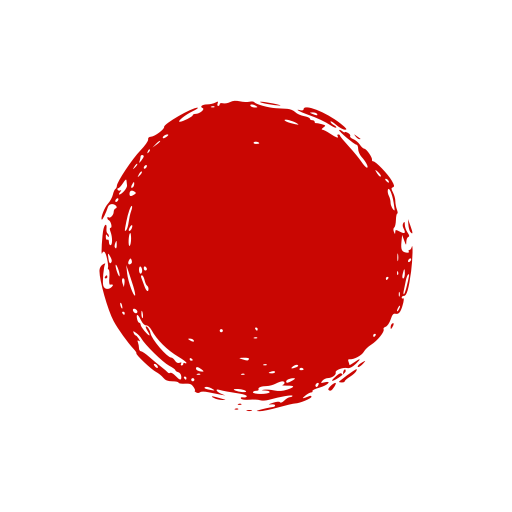
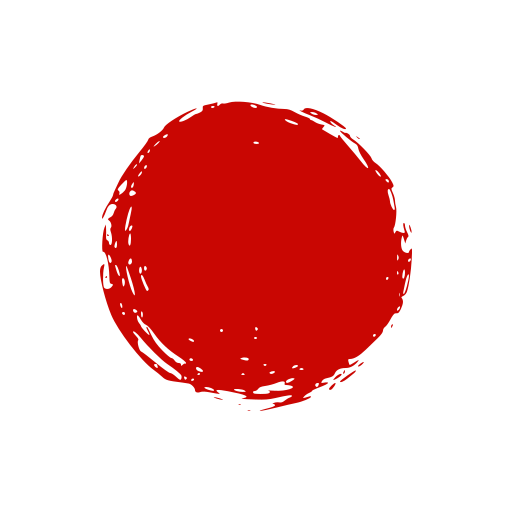
Add files via upload

diff --git a/index.html b/index.html
@@ -252,6 +252,9 @@
             bottom: 10px;
             right: 14px;
             z-index: 2;
+            display: flex;
+            align-items: center;
+            gap: 8px;
         }
 
         .btn-circle-submit {
@@ -270,6 +273,26 @@
         .btn-circle-submit:hover {
             opacity: 0.85;
             transform: scale(1.15);
+        }
+
+        /* Clear Button styled exactly like logout/close symbol */
+        .btn-clear-inline {
+            background: transparent;
+            border: none;
+            cursor: pointer;
+            padding: 2px;
+            display: flex;
+            align-items: center;
+            justify-content: center;
+            color: var(--text-color);
+            opacity: 0.35;
+            transition: opacity 0.2s ease, color 0.2s ease, transform 0.2s ease;
+        }
+
+        .btn-clear-inline:hover {
+            opacity: 1;
+            color: #ff3b30;
+            transform: scale(1.1);
         }
 
         /* Mini Calendar Widget */
@@ -651,6 +674,13 @@
 
         <div class="floating-footer-left" id="counterDisplay">0 words · 0 chars</div>
         <div class="floating-footer-right">
+            <!-- Clear Button (styled like logout/close symbol) -->
+            <button class="btn-clear-inline" onclick="clearCurrentJournal()" title="clear text">
+                <svg viewBox="0 0 24 24" width="14" height="14" stroke="currentColor" stroke-width="2" fill="none" stroke-linecap="round" stroke-linejoin="round">
+                    <line x1="18" y1="6" x2="6" y2="18"></line>
+                    <line x1="6" y1="6" x2="18" y2="18"></line>
+                </svg>
+            </button>
             <button class="btn-circle-submit" onclick="saveCurrentJournal()" title="submit"></button>
         </div>
     </main>
@@ -935,15 +965,29 @@
         document.getElementById('counterDisplay').innerText = `${words} words · ${chars} chars`;
     }
 
+    function clearCurrentJournal() {
+        const textarea = document.getElementById('mainTextarea');
+        textarea.value = '';
+        updateCounters('');
+        showToast('text cleared');
+    }
+
     async function saveCurrentJournal() {
         if (!currentUser) {
             openLoginModal();
             return;
         }
 
+        const todayStr = getFormattedDateStr(new Date());
+
+        // Aturan: Deny jika submit 2x hari ini (sudah ada entri hari ini), harus masuk tanggal di kalender untuk edit
+        if (journalEntries[todayStr]) {
+            showToast('already submitted today. use calendar to edit.');
+            return;
+        }
+
         const textarea = document.getElementById('mainTextarea');
         const content = textarea.value.trim().toLowerCase();
-        const todayStr = getFormattedDateStr(new Date());
 
         if (!content) {
             showToast('entry is empty');
@@ -964,7 +1008,10 @@
             console.error(error);
         } else {
             await fetchUserEntries();
-            showToast('journal saved online!');
+            // Auto delete/reset text pada placeholder utama setelah berhasil submit
+            textarea.value = '';
+            updateCounters('');
+            showToast('submitted & saved online!');
         }
     }
 
@@ -1213,15 +1260,22 @@
         const yearNum = parseInt(yearStr, 10);
         const dates = getDateRangeOfWeek(weekNum, weekNum ? weekNum : 1, yearNum);
 
-        let summaryText = `weekly audit summary - week ${weekNum} (${yearNum})\n\n`;
+        let summaryText = `weekly audit summary - week ${weekNum} (${yearNum})
+
+`;
 
         dates.forEach(d => {
             const dateStr = getFormattedDateStr(d);
             const formattedDate = d.toLocaleDateString('en-US', { weekday: 'short', month: 'short', day: 'numeric' }).toLowerCase();
             const entry = journalEntries[dateStr];
 
-            summaryText += `--- ${formattedDate} ---\n`;
-            summaryText += entry ? `${entry.content}\n\n` : `(no entry)\n\n`;
+            summaryText += `--- ${formattedDate} ---
+`;
+            summaryText += entry ? `${entry.content}
+
+` : `(no entry)
+
+`;
         });
 
         navigator.clipboard.writeText(summaryText.trim()).then(() => {
